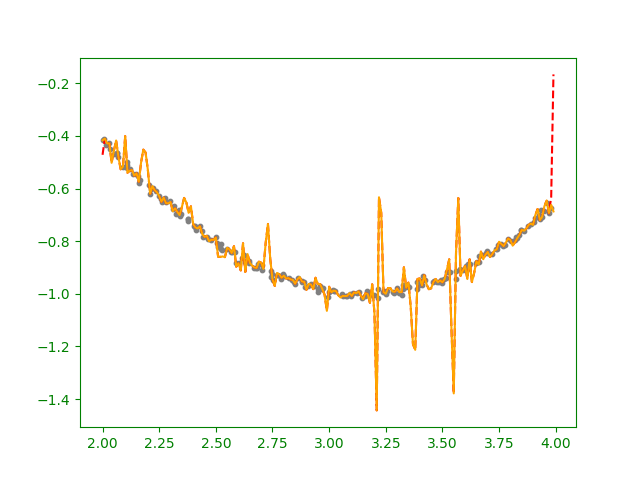
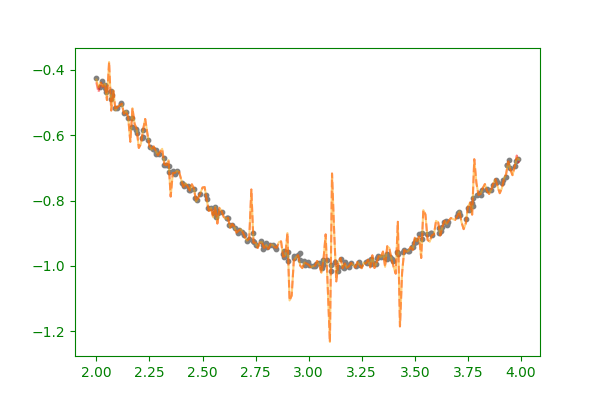
Overtuning again

diff --git a/spline.py b/spline.py
@@ -4,7 +4,7 @@ from numpy.random import normal
 import matplotlib.pyplot as plt
 import numpy as np
 
-figure(figsize = (12, 8), dpi = 100)
+figure(figsize = (6, 4), dpi = 100)
 
 xt = np.arange(-3, 3, 0.1) # true x coordinates
 n = len(xt)
@@ -21,8 +21,8 @@ plt.rcParams.update({'text.color': 'green',
                      'axes.labelcolor': 'green',
                      'axes.edgecolor': 'green',
                      'axes.facecolor':  'none' })
-plt.scatter(x, y, c = 'red') # data
+plt.scatter(x, y, c = 'red', s = 10) # data
 plt.plot(xt, yt, c = 'gray', linestyle = 'dashed') # pure model
-plt.plot(x, st(x), c = 'orange', linewidth = 2) # clean spline
-plt.plot(xt, s(xt), c = 'blue', linewidth = 1) # noisy spline
+plt.plot(x, st(x), c = 'orange', linewidth = 2, alpha = 0.5) # clean spline
+plt.plot(xt, s(xt), c = 'blue', linewidth = 1, alpha = 0.5) # noisy spline
 plt.savefig('spline.png', transparent = True)

diff --git a/natural.py b/natural.py
@@ -1,7 +1,10 @@
 from scipy.interpolate import CubicSpline
+from matplotlib.pyplot import figure
 from numpy.random import normal
 import matplotlib.pyplot as plt
 import numpy as np
+
+figure(figsize = (6, 4), dpi = 100)
 
 xt = np.arange(2, 4, 0.01) # true x coordinates
 n = len(xt)
@@ -18,6 +21,6 @@ plt.rcParams.update({'text.color': 'green',
                      'axes.edgecolor': 'green',
                      'axes.facecolor':  'none' })
 plt.scatter(x, y, c = 'gray', s = 10) # data
-plt.plot(xt, s(xt), linestyle = 'dashed', c = 'red') # regular spline (defaults to 'not-a-knot')
-plt.plot(xt, ns(xt), c = 'orange') # natural spline
+plt.plot(xt, s(xt), linestyle = 'dashed', c = 'red', alpha = 0.5) # regular spline (defaults to 'not-a-knot')
+plt.plot(xt, ns(xt), c = 'orange', alpha = 0.5) # natural spline
 plt.savefig('natural.png', transparent = True)

diff --git a/bands.py b/bands.py
@@ -5,7 +5,7 @@ from matplotlib.pyplot import figure
 from numpy.random import normal, uniform
 from sklearn.linear_model import LinearRegression
 
-figure(figsize = (20, 4), dpi = 100)
+figure(figsize = (10, 2), dpi = 100)
 
 np.seterr(all='raise') 
 np.set_printoptions(precision = 2, suppress = True)
